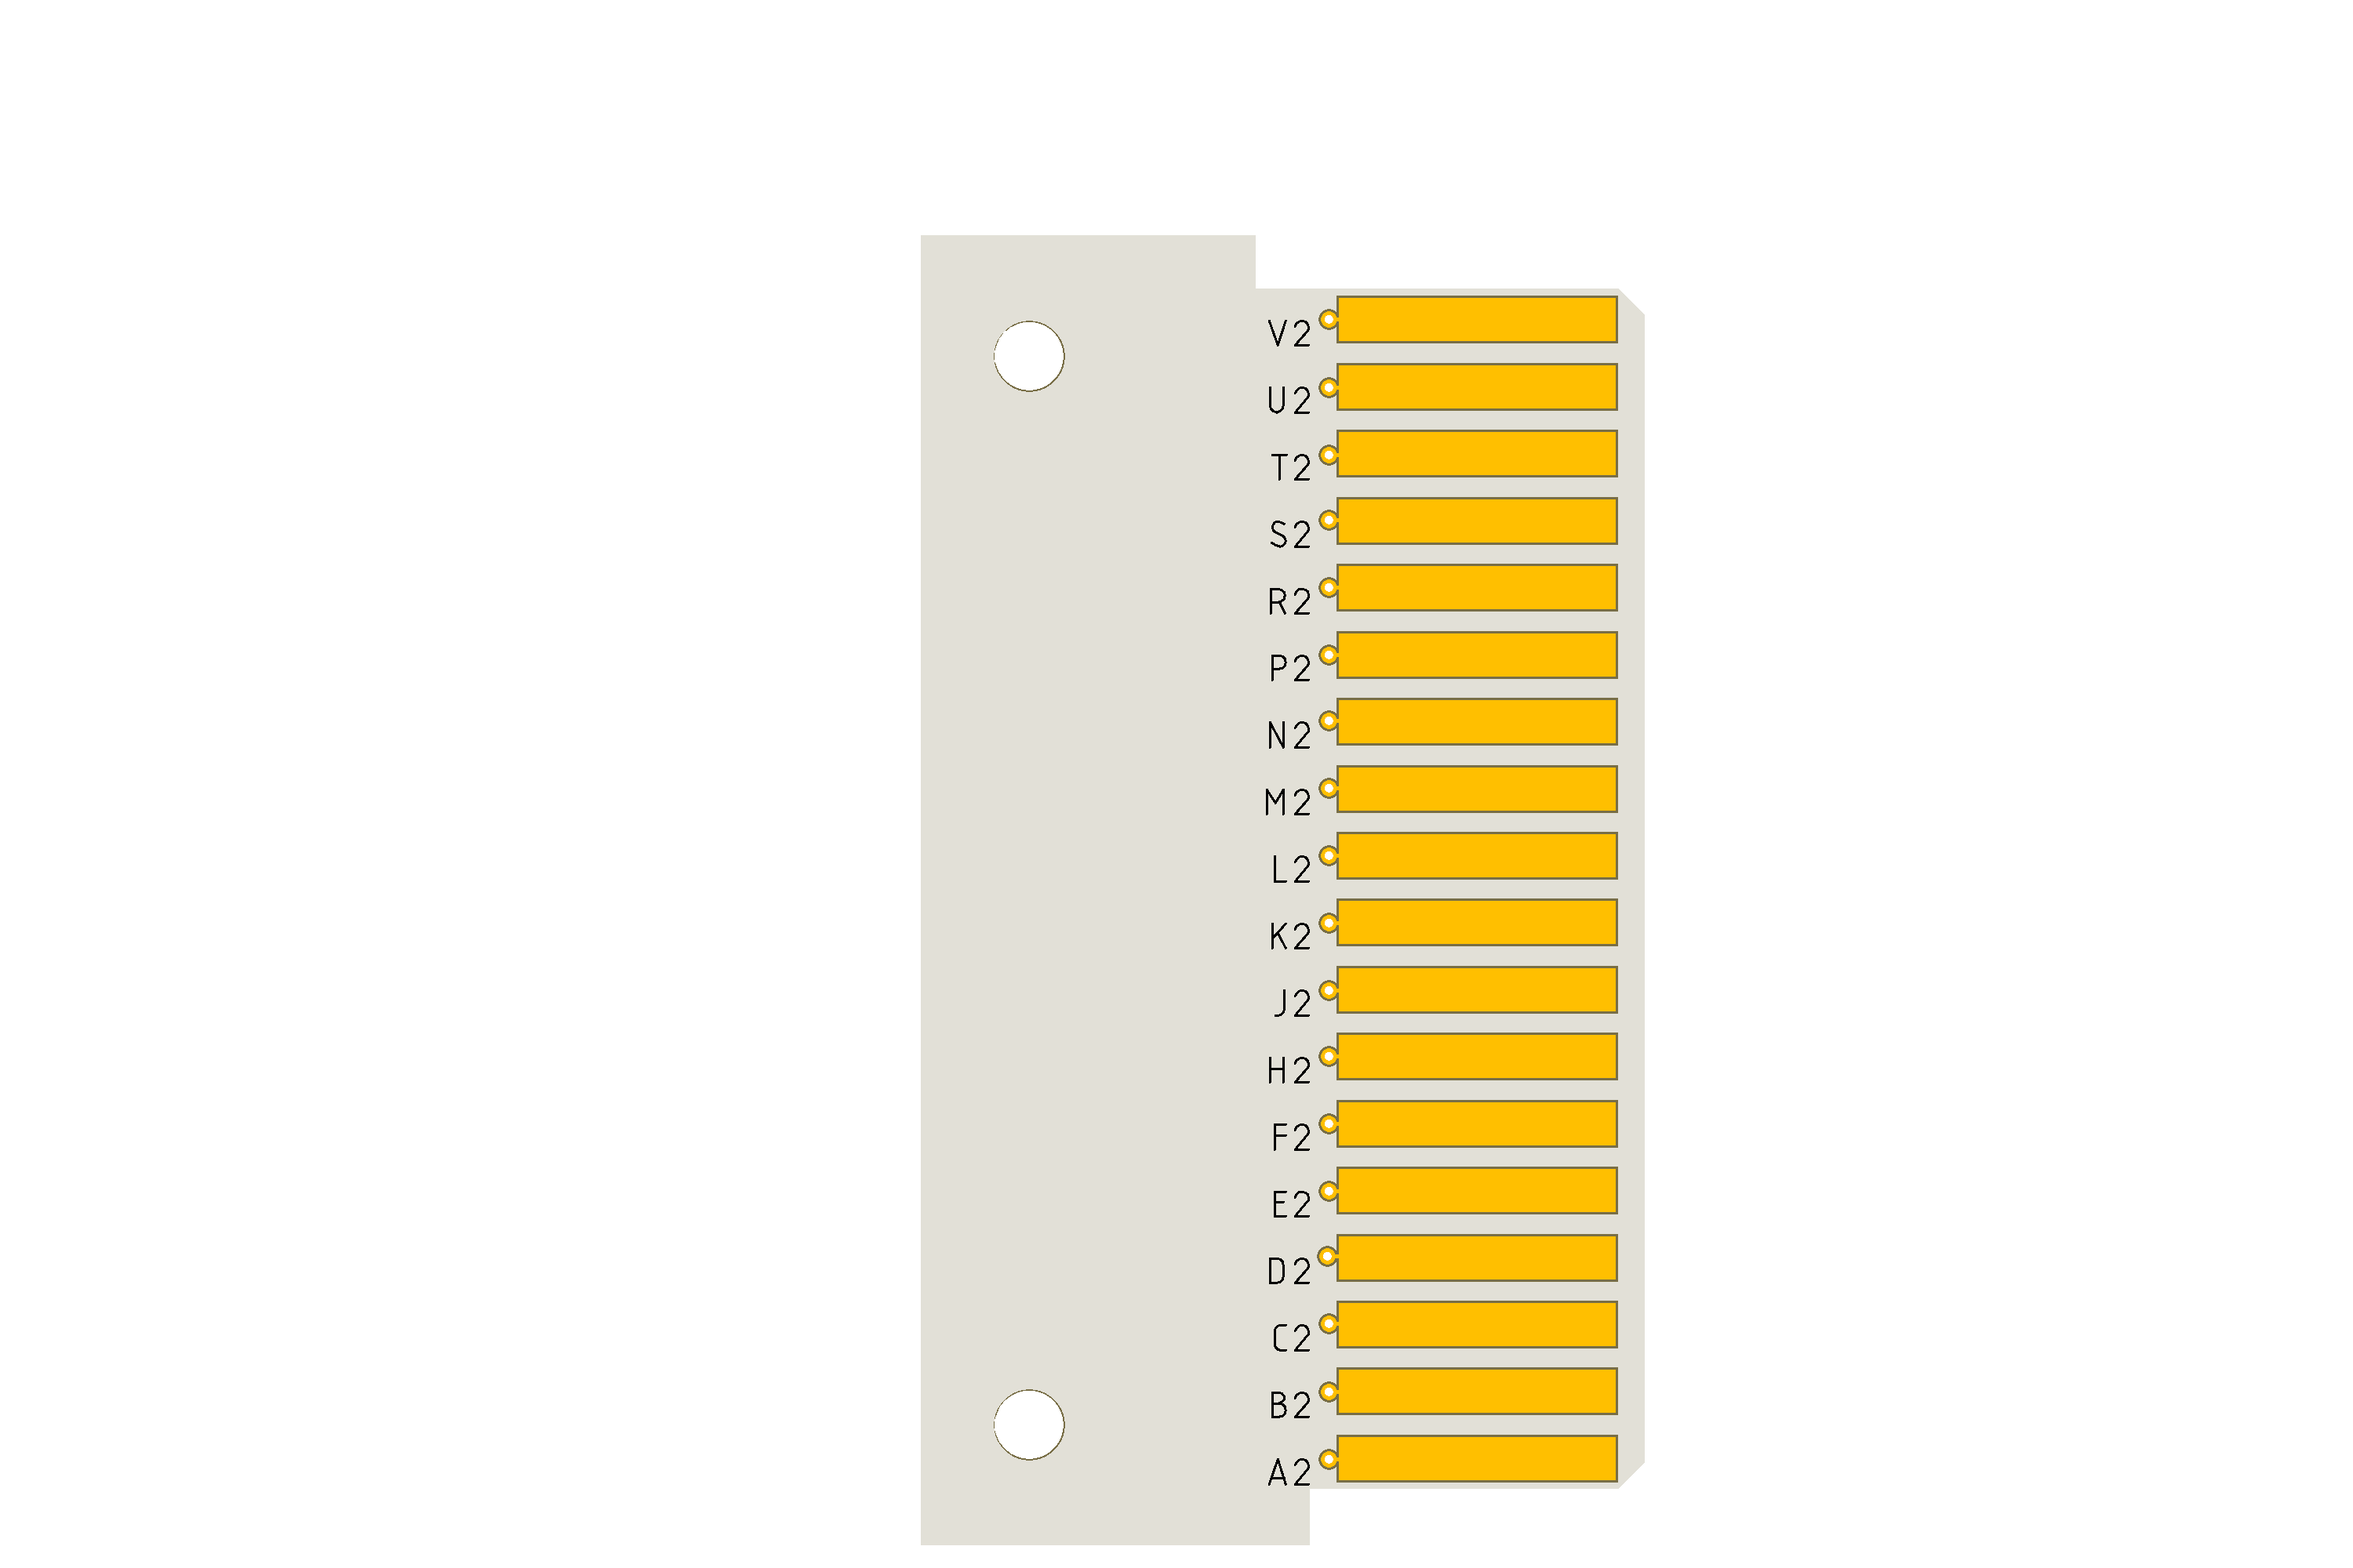
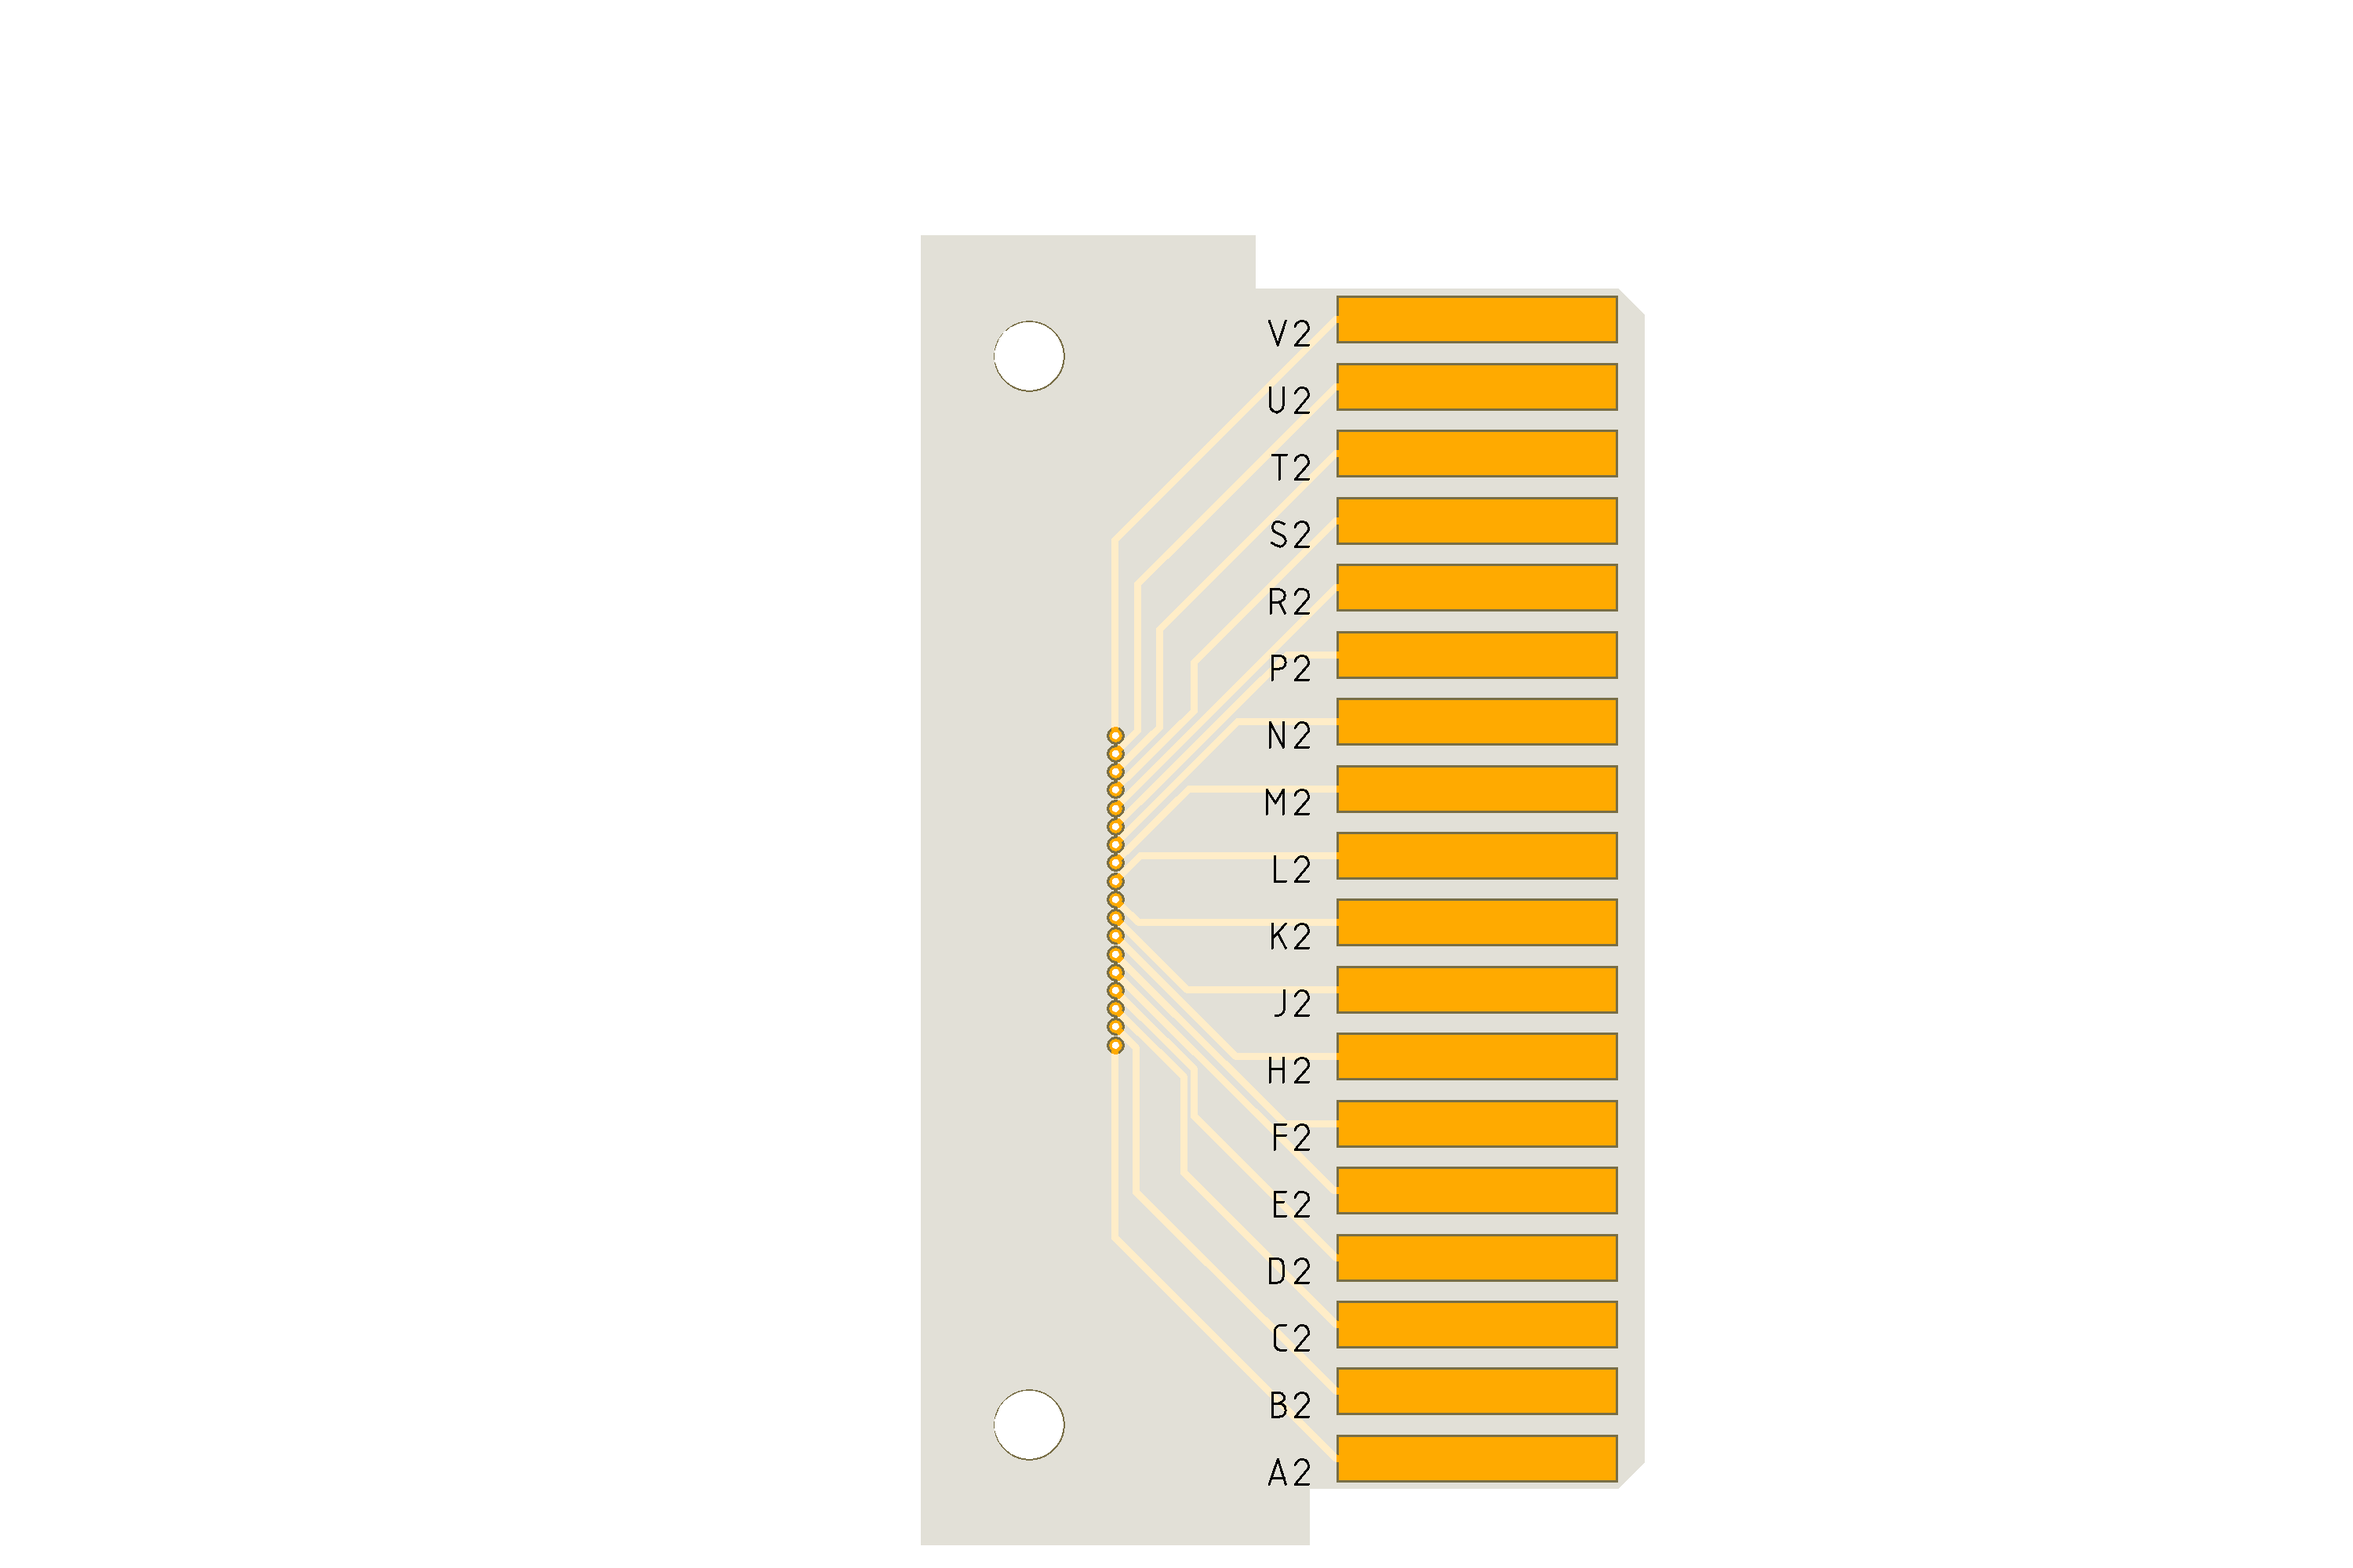
Update W021J renders

Changed region(s): [[0.465, 0.217, 0.589, 0.899], [0.558, 0.186, 0.589, 0.217]]

diff --git a/README.md b/README.md
@@ -8,7 +8,7 @@ NVSRAM-based replacement for 24 kiloword PDP-12 core memory expansion normally a
 ## Signal Cable Connector W021J
 Flat-flex cable version of the W021 intended for use with the MM24I
 ![top](https://github.com/jnowaczek/flipchip-probe/blob/master/render/W021J%20top.png)
-![bottom](https://github.com/jnowaczek/flipchip-probe/blob/master/render/W021%20bottom.png)
+![bottom](https://github.com/jnowaczek/flipchip-probe/blob/master/render/W021J%20bottom.png)
 
 
 ## Flip Chip Slot Breakout P111
